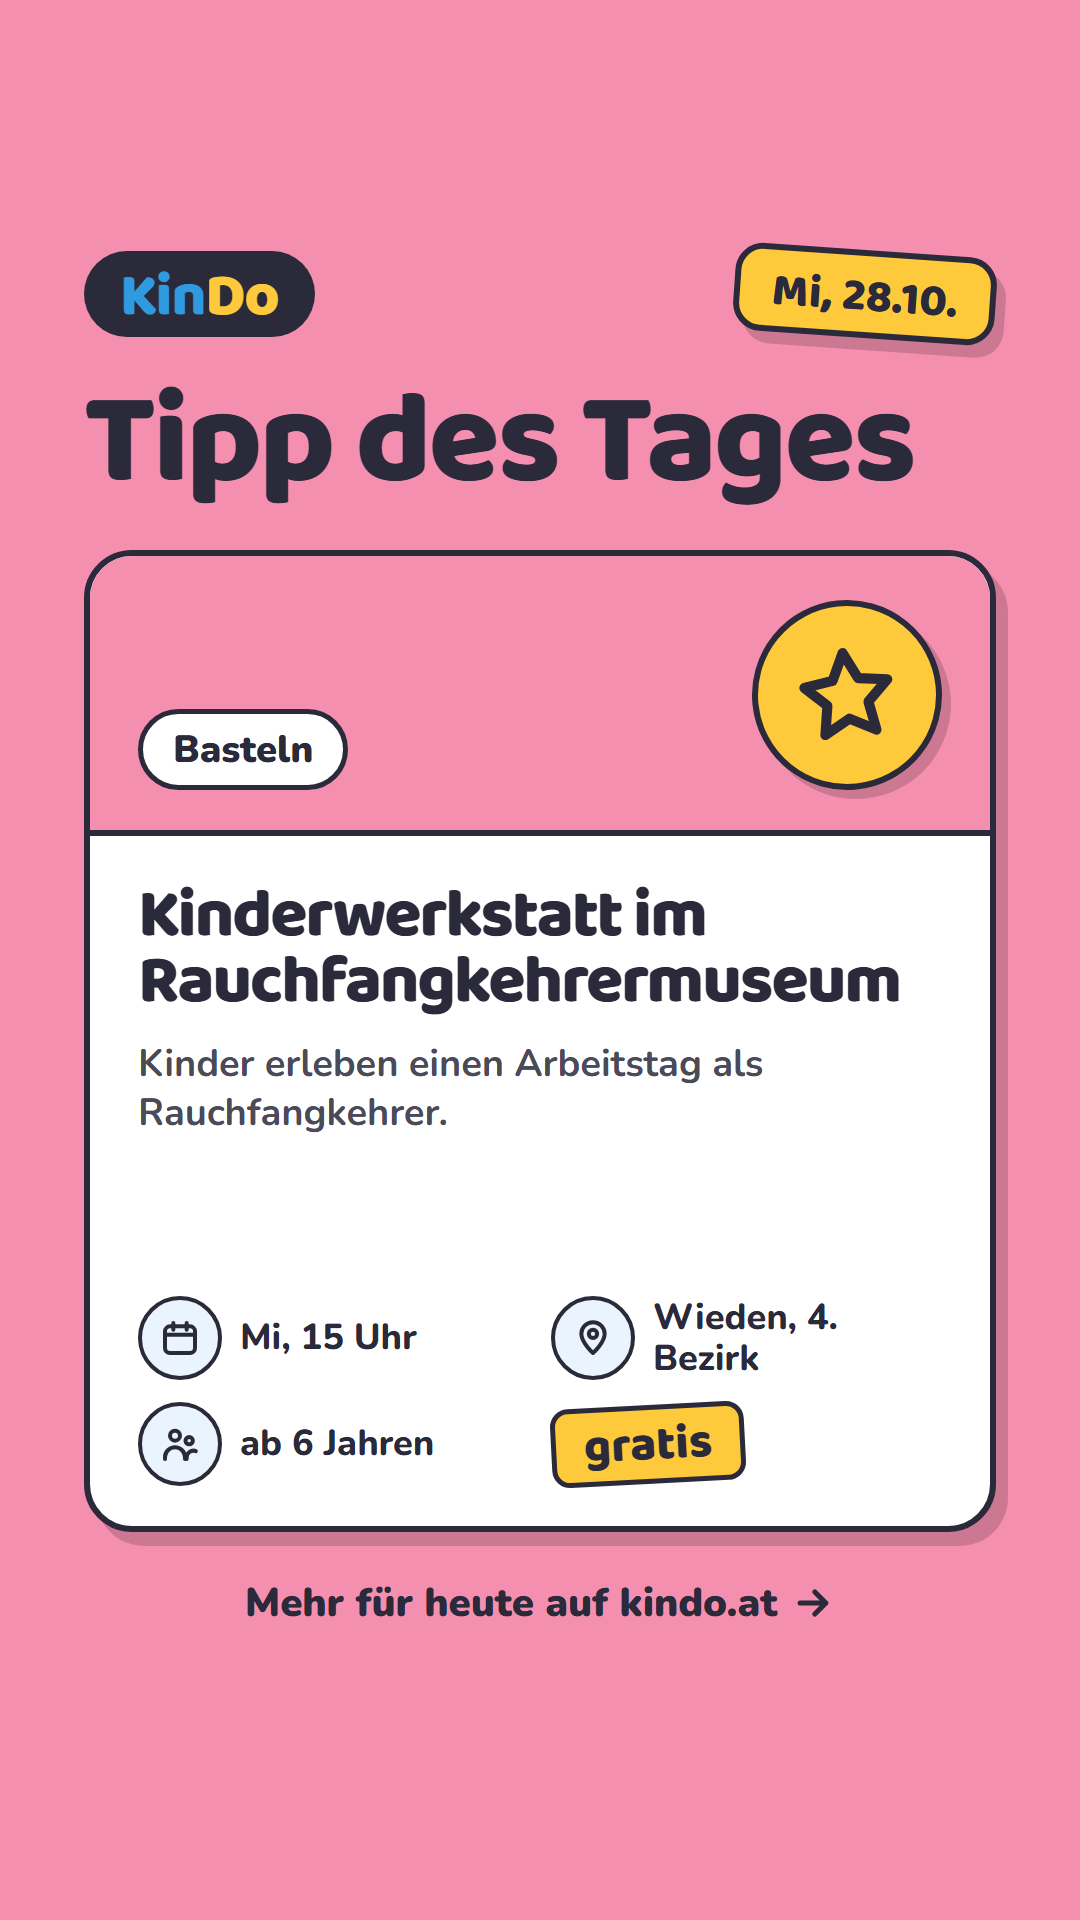
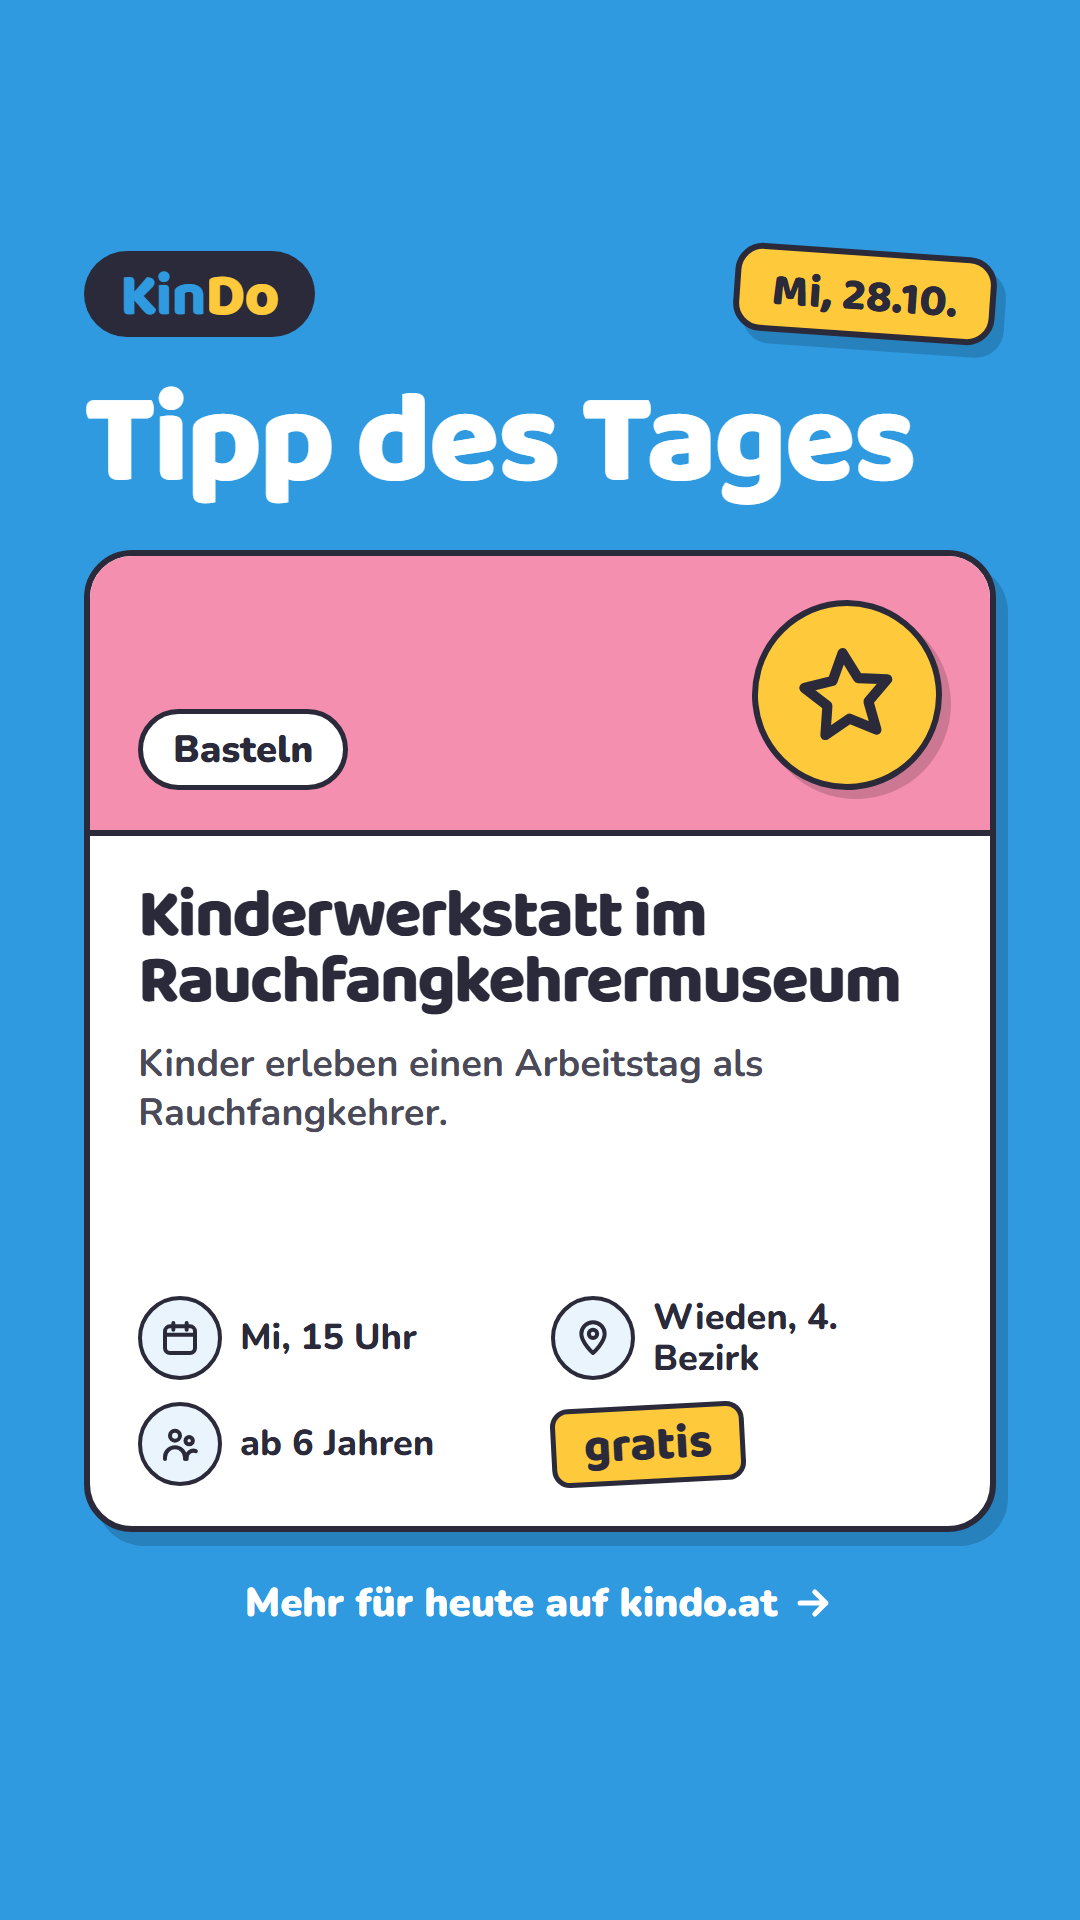
Story: Hintergrund nie in derselben Farbe wie der Karten-Kopf
Fällt die Tagesfarbe auf die Farbe der Kategorie (z. B. pink bei Basteln),
nimmt die Story die nächste KinDo-Farbe. Story für 28.10. neu erzeugt.

diff --git a/story.js b/story.js
@@ -10,7 +10,7 @@
 //   "link": "https://www.kindo.at/veranstaltungen/264783" }
 const fs = require('fs');
 const path = require('path');
-const { B, INK, esc, logo, pfeil, rendern, tippKarte, TITELFARBEN, titelschrift } = require('./bild');
+const { B, INK, esc, farbe, logo, pfeil, rendern, tippKarte, TITELFARBEN, titelschrift } = require('./bild');
 
 const SH = 1920;
 const TAGE = ['So', 'Mo', 'Di', 'Mi', 'Do', 'Fr', 'Sa'];
@@ -18,7 +18,9 @@ const STERN = `<svg aria-hidden="true" width="110" height="110" viewBox="0 0 24 
 
 function storyFolie(s) {
   const tag = Date.parse(s.datum) / 864e5;
-  const grund = TITELFARBEN[tag % TITELFARBEN.length]; // jeden Tag die nächste KinDo-Farbe
+  let grund = TITELFARBEN[tag % TITELFARBEN.length]; // jeden Tag die nächste KinDo-Farbe
+  // Nicht dieselbe Farbe wie der Kopf der Karte, sonst verschwimmt die Karte im Hintergrund
+  if (grund === farbe(s.tipp.kategorie)) grund = TITELFARBEN[(tag + 1) % TITELFARBEN.length];
   const schrift = titelschrift(grund);
   const [, m, d] = s.datum.split('-');
   const kurz = `${TAGE[new Date(s.datum).getUTCDay()]}, ${+d}.${+m}.`;
